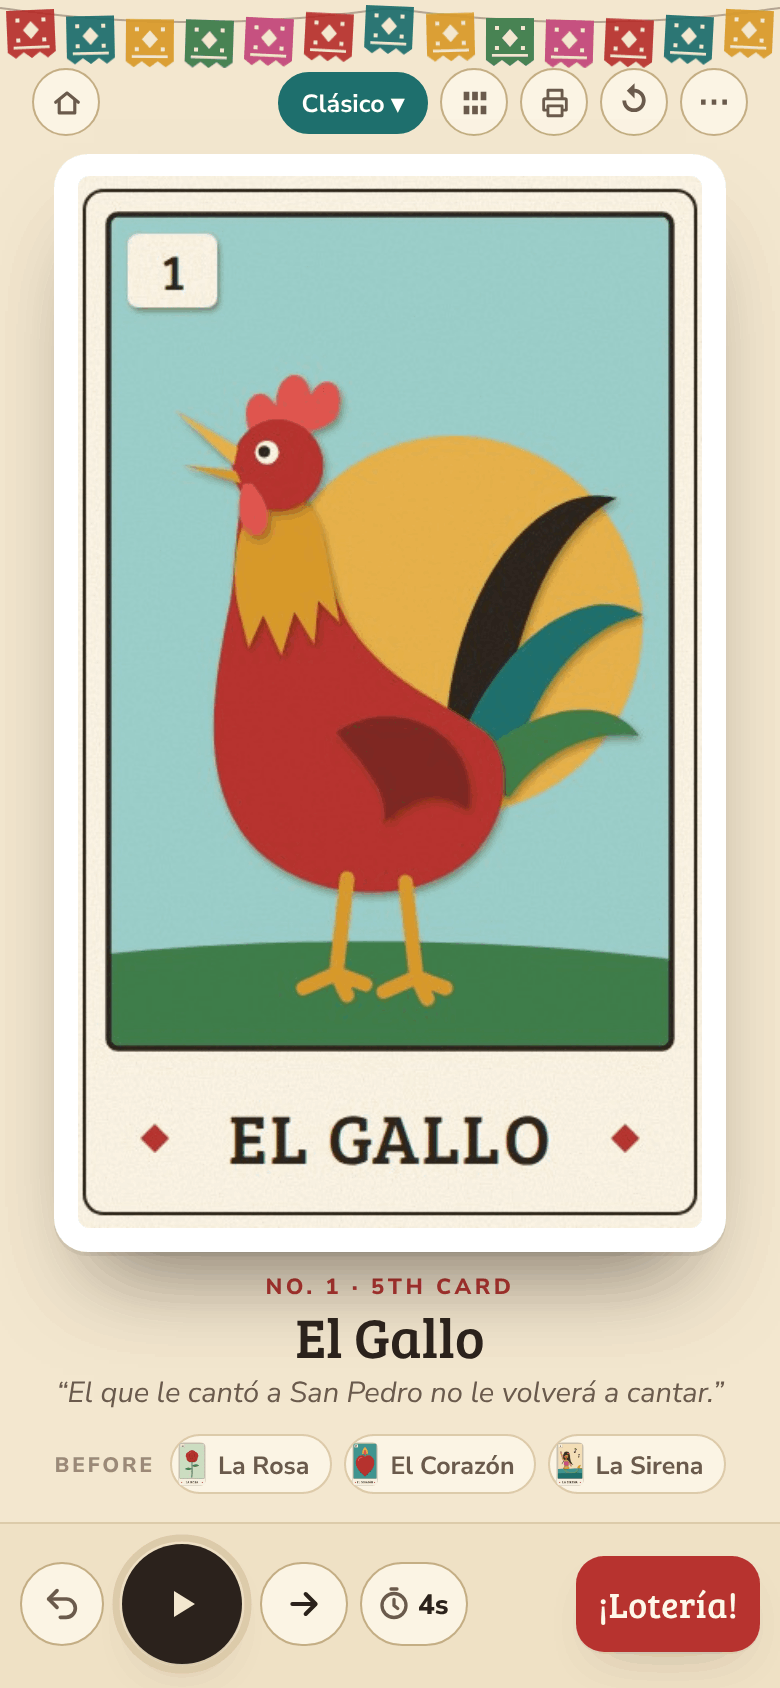
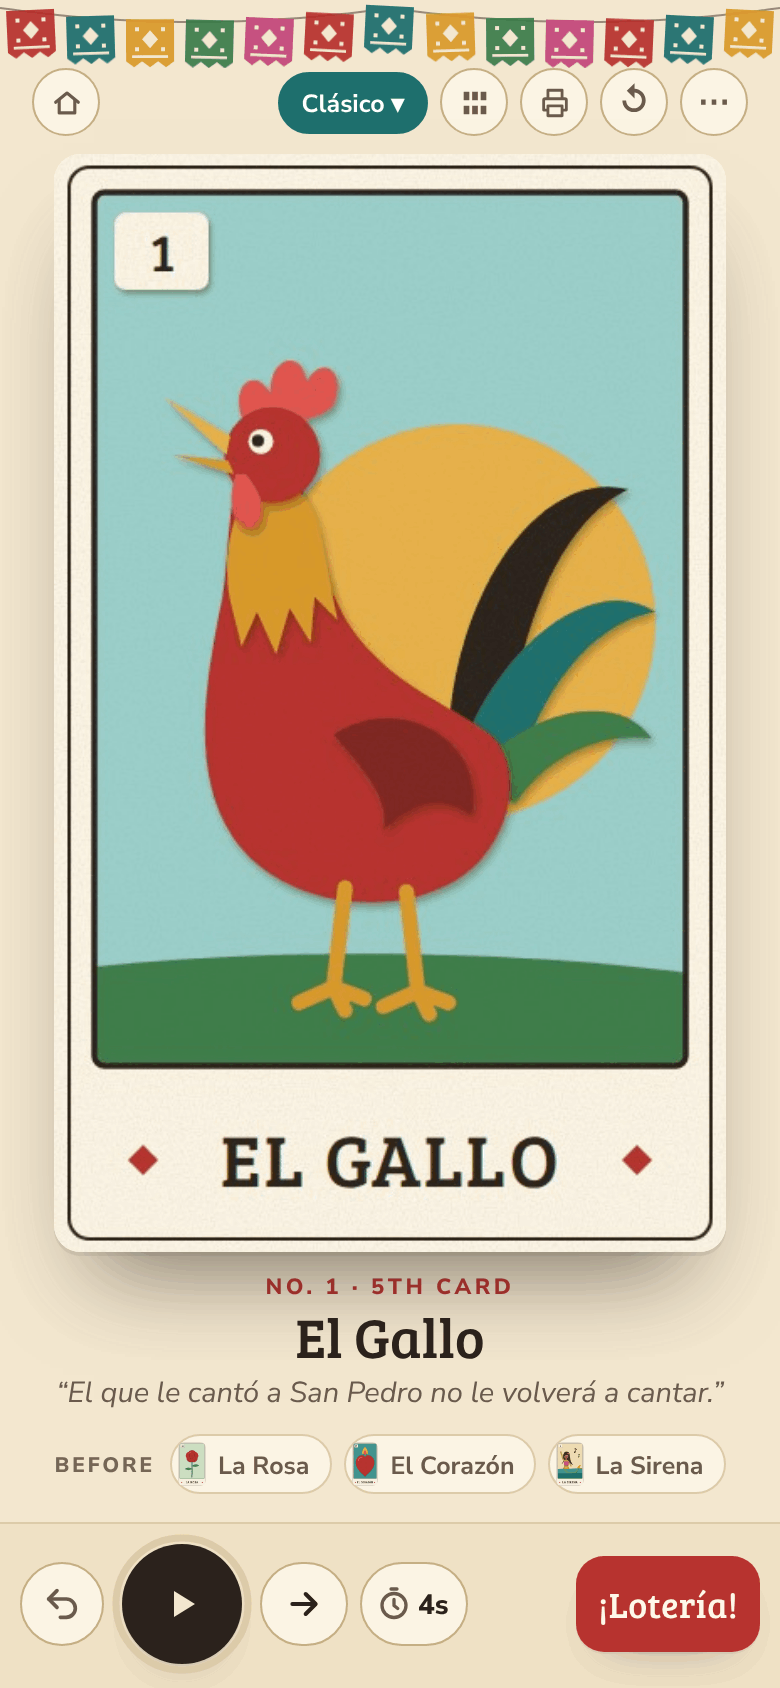
Show El Cantor's card on its own cream paper, without the white mat round it
The card being called sat in a white padded mat with its own rounded corners, so the new cream cards, which carry
their own frame, had a second one round them, like a photo in a mount; in dark mode the white ring was the
brightest thing on the screen. The card now fills its place edge to edge on the card's cream, rounded like the
printed card, and comes out a little larger. The back keeps its pattern inset, so it gets the same cream edge. The
README's picture of El Cantor is redrawn.

Claude-Session: https://claude.ai/code/session_01ED8qSJ5rwr7MSBSyqVyxwc

diff --git a/cantor.html b/cantor.html
@@ -88,13 +88,13 @@ a.chip{text-decoration:none}
 .app.tall .stage{flex-direction:column;gap:12px}
 .deal{flex:1 1 0;min-width:0;min-height:0;display:flex;flex-direction:column;align-items:center;gap:10px}
 .cardarea{flex:1 1 0;min-height:0;width:100%;display:flex;align-items:center;justify-content:center}
-.flip{position:relative;flex:none;width:var(--cw,220px);height:var(--ch,360px);perspective:1600px;border:0;padding:0;background:none;border-radius:calc(var(--cw,220px)*.05)}
+.flip{position:relative;flex:none;width:var(--cw,220px);height:var(--ch,360px);perspective:1600px;border:0;padding:0;background:none;border-radius:calc(var(--cw,220px)*.04)}
 .flip .inner{position:absolute;inset:0;transform-style:preserve-3d}
 .flip .inner.down{transform:rotateY(180deg)}
 .flip .inner.turn{animation:turn .64s cubic-bezier(.25,.8,.25,1)}
 @keyframes turn{0%{transform:translateY(-14px) rotateY(180deg) rotateZ(-4deg)}100%{transform:none}}
-.face{position:absolute;inset:0;backface-visibility:hidden;-webkit-backface-visibility:hidden;border-radius:calc(var(--cw,220px)*.05);overflow:hidden;box-shadow:var(--lift);background:#fff;padding:calc(var(--cw,220px)*.035)}
-.face.front img{width:100%;height:100%;object-fit:cover;display:block;border-radius:calc(var(--cw,220px)*.018)}
+.face{position:absolute;inset:0;backface-visibility:hidden;-webkit-backface-visibility:hidden;border-radius:calc(var(--cw,220px)*.04);overflow:hidden;box-shadow:var(--lift);background:#FBF4E4} /* the card's own paper, in both themes */
+.face.front img{width:100%;height:100%;object-fit:cover;display:block}
 .face.back{transform:rotateY(180deg)}
 .back .pat{position:absolute;inset:calc(var(--cw,220px)*.035);border-radius:calc(var(--cw,220px)*.025);background:repeating-linear-gradient(45deg,rgba(255,226,160,.17) 0 1.5px,transparent 1.5px 13px),repeating-linear-gradient(-45deg,rgba(255,226,160,.17) 0 1.5px,transparent 1.5px 13px),#A92B27;box-shadow:inset 0 0 0 calc(var(--cw,220px)*.03) #A92B27,inset 0 0 0 calc(var(--cw,220px)*.04) #E2B04A}
 .back .seal{position:absolute;left:50%;top:50%;width:66%;aspect-ratio:1;transform:translate(-50%,-50%);border-radius:50%;background:#FFF3D6;box-shadow:0 0 0 calc(var(--cw,220px)*.012) #E2B04A,0 0 0 calc(var(--cw,220px)*.03) #A92B27,0 0 0 calc(var(--cw,220px)*.037) #E2B04A;display:flex;flex-direction:column;align-items:center;justify-content:center;color:#A92B27;text-align:center}

diff --git a/sw.js b/sw.js
@@ -9,7 +9,7 @@
 // fingerprint of every file in SHELL: change any of them and test/e2e.mjs fails until FILES is changed to match (it
 // says what to), which changes this file, so every copy is made whole again at once.
 const CACHE = 'el-cantor-v3'; // bump the number when the file list changes
-const FILES = 'de304abd'; // test/e2e.mjs checks this
+const FILES = '22f47cb3'; // test/e2e.mjs checks this
 const SHELL = [
   './', 'index.html', 'carry.js', 'strings.js', 'cantor.html', 'board.html', 'print.html', 'deck.js', 'sync.js',
   'icon.svg', 'icon-180.png', 'icon-192.png', 'manifest.webmanifest', 'audio/voices.json',
